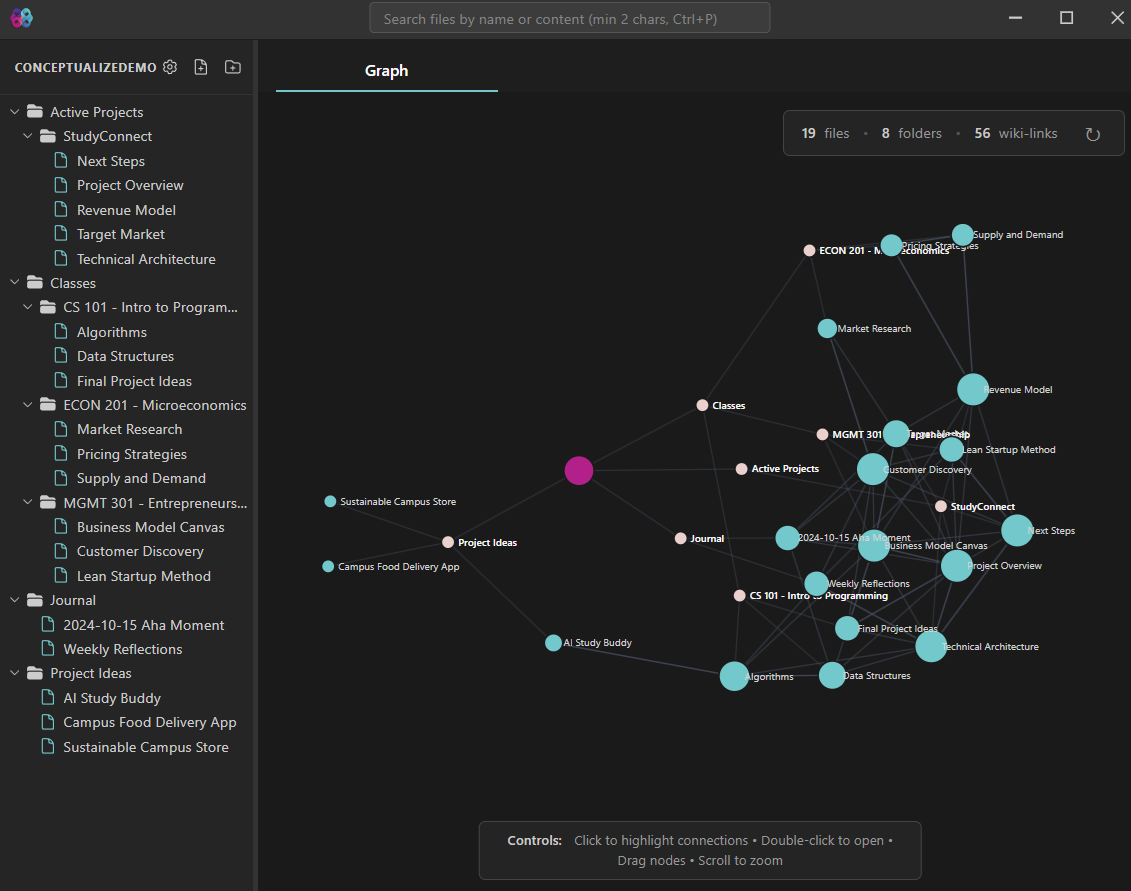
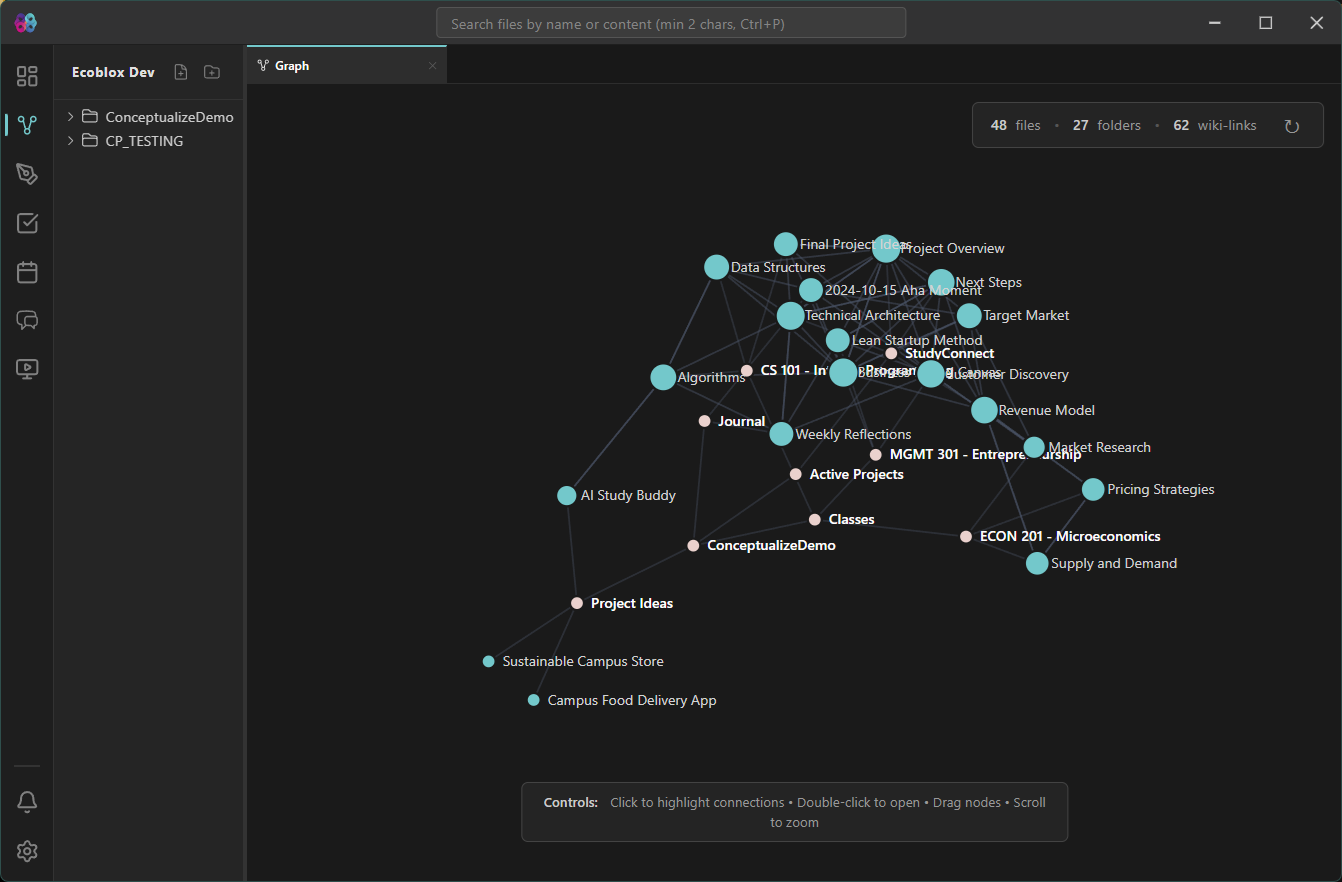
Update to v1.0.8
- Updated version and download links
- Changed Graph View image to conceptualize_main.png
- Changed Editor image to naturalLinking_new.png

🤖 Generated with [Claude Code](https://claude.com/claude-code)

diff --git a/index.html b/index.html
@@ -87,7 +87,7 @@
         <a href="#team-mode" class="hover:text-[#d4d4d4] transition">Team Mode</a>
         <a href="#pricing" class="hover:text-[#d4d4d4] transition">Pricing</a>
         <a href="#faq" class="hover:text-[#d4d4d4] transition">FAQ</a>
-        <a href="https://conceptualize-c9a41.web.app/downloads/conceptualize_1.0.4_x64-setup.exe" download class="px-4 py-2 rounded-lg border border-[rgba(76,103,168,0.18)] text-[#d4d4d4] hover:bg-[rgba(76,103,168,0.08)] transition">Download</a>
+        <a href="https://conceptualize-c9a41.web.app/downloads/conceptualize_1.0.8_x64-setup.exe" download class="px-4 py-2 rounded-lg border border-[rgba(76,103,168,0.18)] text-[#d4d4d4] hover:bg-[rgba(76,103,168,0.08)] transition">Download</a>
       </nav>
 
       <!-- Mobile Menu Button -->
@@ -105,7 +105,7 @@
         <a href="#team-mode" class="block text-[#9b9b9b] hover:text-[#d4d4d4] transition">Team Mode</a>
         <a href="#pricing" class="block text-[#9b9b9b] hover:text-[#d4d4d4] transition">Pricing</a>
         <a href="#faq" class="block text-[#9b9b9b] hover:text-[#d4d4d4] transition">FAQ</a>
-        <a href="https://conceptualize-c9a41.web.app/downloads/conceptualize_1.0.4_x64-setup.exe" download class="block w-full text-center px-4 py-2 rounded-lg border border-[rgba(76,103,168,0.18)] text-[#d4d4d4] hover:bg-[rgba(76,103,168,0.08)] transition">Download</a>
+        <a href="https://conceptualize-c9a41.web.app/downloads/conceptualize_1.0.8_x64-setup.exe" download class="block w-full text-center px-4 py-2 rounded-lg border border-[rgba(76,103,168,0.18)] text-[#d4d4d4] hover:bg-[rgba(76,103,168,0.08)] transition">Download</a>
       </div>
     </nav>
   </header>
@@ -115,7 +115,7 @@
     <section class="max-w-6xl mx-auto px-6 py-16 md:py-24">
       <div class="text-center mb-12">
         <div class="inline-flex items-center gap-2 px-3 py-1 rounded-full bg-[rgba(168,85,247,0.1)] border border-[rgba(168,85,247,0.2)] text-sm text-pro mb-6">
-          <span>v1.0.4</span>
+          <span>v1.0.8</span>
           <span class="text-[#9b9b9b]">-</span>
           <span>Now with Team Mode</span>
         </div>
@@ -128,7 +128,7 @@
         </p>
 
         <div class="flex flex-wrap justify-center gap-4 mb-8">
-          <a href="https://conceptualize-c9a41.web.app/downloads/conceptualize_1.0.4_x64-setup.exe" download class="inline-flex items-center gap-3 px-6 py-3 rounded-lg gradient-accent border border-[rgba(76,103,168,0.18)] text-[#d4d4d4] hover:bg-brand transition-all transform hover:scale-105">
+          <a href="https://conceptualize-c9a41.web.app/downloads/conceptualize_1.0.8_x64-setup.exe" download class="inline-flex items-center gap-3 px-6 py-3 rounded-lg gradient-accent border border-[rgba(76,103,168,0.18)] text-[#d4d4d4] hover:bg-brand transition-all transform hover:scale-105">
             <svg class="w-5 h-5" viewBox="0 0 24 24" fill="none" stroke="currentColor" stroke-width="2">
               <path d="M21 15v4a2 2 0 0 1-2 2H5a2 2 0 0 1-2-2v-4"/>
               <polyline points="7 10 12 15 17 10"/>
@@ -136,24 +136,21 @@
             </svg>
             <span class="font-medium">Download for Windows</span>
           </a>
+          <a href="https://conceptualize-c9a41.web.app/downloads/conceptualize_1.0.8_arm64.dmg" download class="inline-flex items-center gap-3 px-6 py-3 rounded-lg gradient-accent border border-[rgba(76,103,168,0.18)] text-[#d4d4d4] hover:bg-brand transition-all transform hover:scale-105">
+            <svg class="w-5 h-5" viewBox="0 0 24 24" fill="none" stroke="currentColor" stroke-width="2">
+              <path d="M21 15v4a2 2 0 0 1-2 2H5a2 2 0 0 1-2-2v-4"/>
+              <polyline points="7 10 12 15 17 10"/>
+              <line x1="12" y1="15" x2="12" y2="3"/>
+            </svg>
+            <span class="font-medium">Download for macOS</span>
+          </a>
           <div class="flex items-center text-sm text-[#9b9b9b]">
             Free to start - No account required
           </div>
         </div>
       </div>
 
-      <!-- Hero Screenshot -->
-      <div class="app-window max-w-5xl mx-auto">
-        <div class="app-window-header">
-          <div class="window-dot bg-[#ff5f57]"></div>
-          <div class="window-dot bg-[#febc2e]"></div>
-          <div class="window-dot bg-[#28c840]"></div>
-          <span class="ml-4 text-sm text-[#9b9b9b]">Conceptualize</span>
-        </div>
-        <!-- PLACEHOLDER: Replace with your main app screenshot -->
-        <img src="/conceptualize_main.png" alt="Conceptualize - Main Interface" class="w-full h-auto">
-      </div>
-    </section>
+          </section>
 
     <!-- Feature 1: Graph View -->
     <section id="features" class="py-24 bg-[rgba(255,255,255,0.01)]">
@@ -189,7 +186,7 @@
               <div class="window-dot bg-[#28c840]"></div>
               <span class="ml-4 text-sm text-[#9b9b9b]">Graph View</span>
             </div>
-            <img src="/visual.png" alt="Graph View - Visual Discovery" class="w-full h-auto">
+            <img src="/public/conceptualize_main.png" alt="Graph View - Visual Discovery" class="w-full h-auto">
           </div>
         </div>
       </div>
@@ -206,7 +203,7 @@
               <div class="window-dot bg-[#28c840]"></div>
               <span class="ml-4 text-sm text-[#9b9b9b]">Editor</span>
             </div>
-            <img src="/naturalLinking.png" alt="Editor with Wiki-links" class="w-full h-auto">
+            <img src="/public/naturalLinking_new.png" alt="Editor with Wiki-links" class="w-full h-auto">
           </div>
           <div class="order-1 lg:order-2">
             <span class="text-accent text-sm font-medium uppercase tracking-wider">Natural Linking</span>
@@ -530,7 +527,7 @@
               </li>
             </ul>
 
-            <a href="https://conceptualize-c9a41.web.app/downloads/conceptualize_1.0.4_x64-setup.exe" download class="block w-full py-3 rounded-lg border border-[rgba(255,255,255,0.1)] text-center text-[#d4d4d4] hover:bg-[rgba(255,255,255,0.05)] transition font-medium">
+            <a href="https://conceptualize-c9a41.web.app/downloads/conceptualize_1.0.8_x64-setup.exe" download class="block w-full py-3 rounded-lg border border-[rgba(255,255,255,0.1)] text-center text-[#d4d4d4] hover:bg-[rgba(255,255,255,0.05)] transition font-medium">
               Download Free
             </a>
           </div>
@@ -578,7 +575,7 @@
               </li>
             </ul>
 
-            <a href="https://conceptualize-c9a41.web.app/downloads/conceptualize_1.0.4_x64-setup.exe" download class="block w-full py-3 rounded-lg bg-pro text-white text-center font-medium hover:bg-[#9333ea] transition">
+            <a href="https://conceptualize-c9a41.web.app/downloads/conceptualize_1.0.8_x64-setup.exe" download class="block w-full py-3 rounded-lg bg-pro text-white text-center font-medium hover:bg-[#9333ea] transition">
               Get Pro
             </a>
           </div>
@@ -703,17 +700,27 @@
           Download Conceptualize and transform how you organize knowledge.
         </p>
 
-        <a href="https://conceptualize-c9a41.web.app/downloads/conceptualize_1.0.4_x64-setup.exe" download class="inline-flex items-center gap-3 px-8 py-4 rounded-lg gradient-accent border border-[rgba(76,103,168,0.18)] text-[#d4d4d4] hover:bg-brand transition-all transform hover:scale-105 font-medium text-lg">
-          <svg class="w-6 h-6" viewBox="0 0 24 24" fill="none" stroke="currentColor" stroke-width="2">
-            <path d="M21 15v4a2 2 0 0 1-2 2H5a2 2 0 0 1-2-2v-4"/>
-            <polyline points="7 10 12 15 17 10"/>
-            <line x1="12" y1="15" x2="12" y2="3"/>
-          </svg>
-          Download for Windows
-        </a>
+        <div class="flex flex-wrap justify-center gap-4">
+          <a href="https://conceptualize-c9a41.web.app/downloads/conceptualize_1.0.8_x64-setup.exe" download class="inline-flex items-center gap-3 px-8 py-4 rounded-lg gradient-accent border border-[rgba(76,103,168,0.18)] text-[#d4d4d4] hover:bg-brand transition-all transform hover:scale-105 font-medium text-lg">
+            <svg class="w-6 h-6" viewBox="0 0 24 24" fill="none" stroke="currentColor" stroke-width="2">
+              <path d="M21 15v4a2 2 0 0 1-2 2H5a2 2 0 0 1-2-2v-4"/>
+              <polyline points="7 10 12 15 17 10"/>
+              <line x1="12" y1="15" x2="12" y2="3"/>
+            </svg>
+            Download for Windows
+          </a>
+          <a href="https://conceptualize-c9a41.web.app/downloads/conceptualize_1.0.8_arm64.dmg" download class="inline-flex items-center gap-3 px-8 py-4 rounded-lg gradient-accent border border-[rgba(76,103,168,0.18)] text-[#d4d4d4] hover:bg-brand transition-all transform hover:scale-105 font-medium text-lg">
+            <svg class="w-6 h-6" viewBox="0 0 24 24" fill="none" stroke="currentColor" stroke-width="2">
+              <path d="M21 15v4a2 2 0 0 1-2 2H5a2 2 0 0 1-2-2v-4"/>
+              <polyline points="7 10 12 15 17 10"/>
+              <line x1="12" y1="15" x2="12" y2="3"/>
+            </svg>
+            Download for macOS
+          </a>
+        </div>
 
         <p class="mt-6 text-sm text-[#6b6b6b]">
-          Windows 10+ (x64) - Version 1.0.4 - macOS and Linux coming soon
+          Windows 10+ (x64) | macOS (Apple Silicon) - Version 1.0.8 - Linux coming soon
         </p>
 
         <p class="mt-4 text-xs text-[#6b6b6b] max-w-md">
